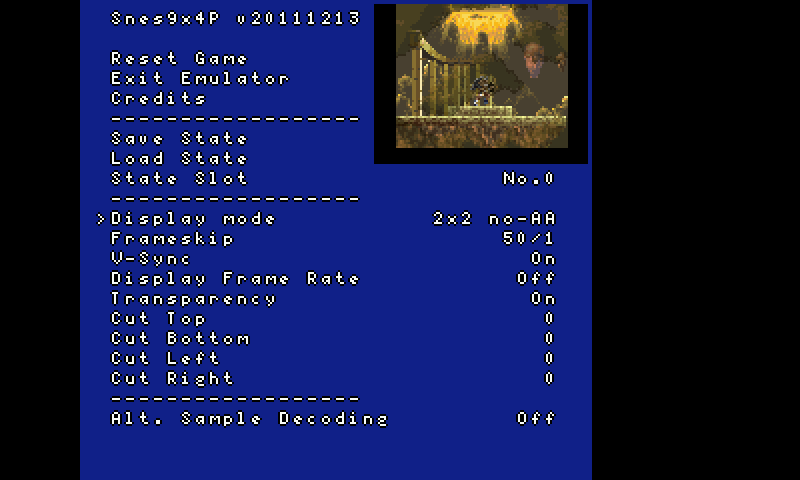
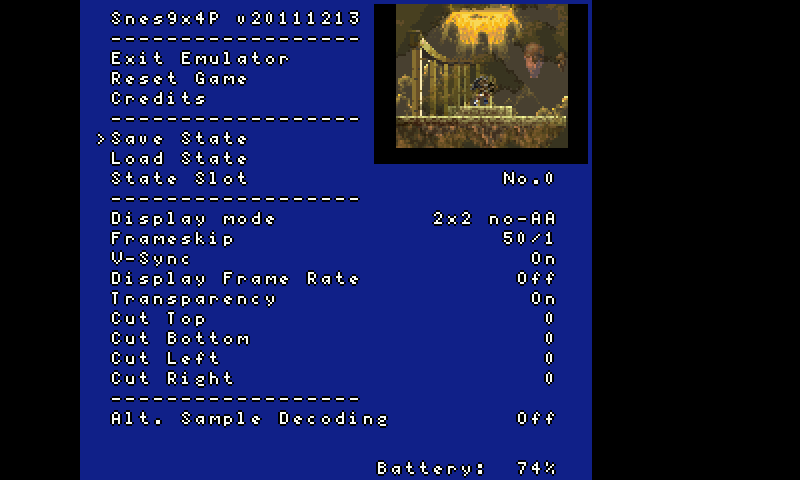
add another separator in the menu (below the title line) and create an updated preview pic

Changed region(s): [[0.125, 0.0625, 0.4688, 0.1875], [0.4688, 0.9375, 0.7188, 1.0]]

diff --git a/unix/menu.cpp b/unix/menu.cpp
@@ -270,7 +270,7 @@ void menu_dispupdate(void)
 
 	strcpy(disptxt[0],"Snes9x4P v20111213");
 
-	strcpy(disptxt[1],"");
+	strcpy(disptxt[1],"------------------");
 	strcpy(disptxt[2],"Exit Emulator");
 	strcpy(disptxt[3],"Reset Game");
 	strcpy(disptxt[4],"Credits");
